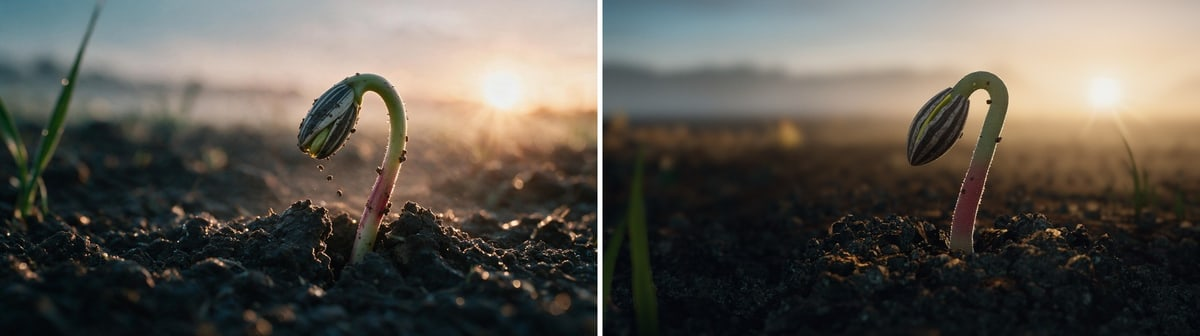
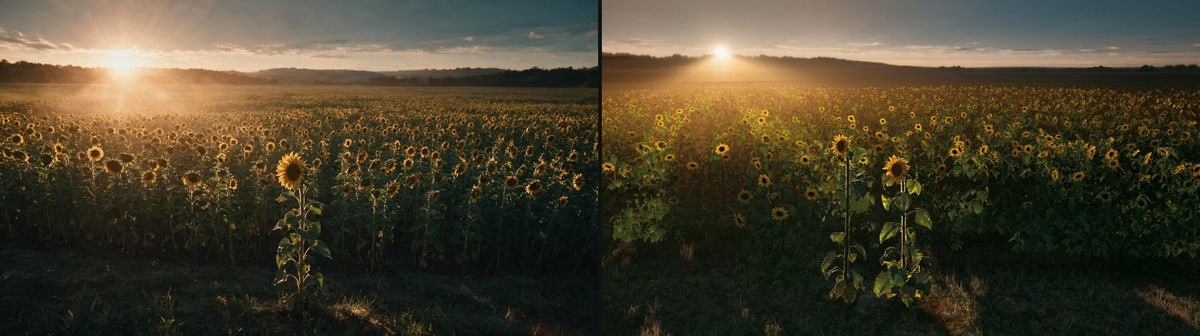
Status 53; rounds 17 and 18: packs in and checked (field, frost) on 47d93fd

diff --git a/kit/PROGRESS.md b/kit/PROGRESS.md
@@ -14,8 +14,8 @@ The Builder's memory. Read this first in every task. Update it before every comm
 - Extensions: 0
 - Extension step: none
 - App URL: https://sunflower-film.pplx.app
-- Last push: 2026-11-21 23:27 UTC · Phase 4: the five clips start in 48 parts on the builders' machines beside the last rounds; the packs of rounds 17 to 21 are being built
-- Last status: 52 · 2026-11-21 23:19 UTC · Phase 4 · unit night · round 16
+- Last push: 2026-11-21 23:47 UTC · Status 53; rounds 17 and 18: packs in and checked (field, frost) on 47d93fd
+- Last status: 53 · 2026-11-21 23:46 UTC · Phase 4 · unit frost · round 18
 
 "Build" is one of `not started`, `in progress`, `complete` or `extension N in progress`. "Budget" is one of `running` or `reported`. `AGENTS.md` says what each means.
 
@@ -23,6 +23,7 @@ The Builder's memory. Read this first in every task. Update it before every comm
 
 Newest first. Each line names the pictures of one status in `out/stills/status/`, with the time and the caption, so this page shows where the film is.
 
+- 2026-11-21 23:46 UTC · status 53 · Phase 4 · unit frost · round 18 · `status-1.jpg`: Frost 36.0 s, final tier. Approved left, the judged frame of round 18 right; `status-2.jpg`: Field 58.5 s, final tier. Approved left, the judged frame of round 17 right
 - 2026-11-21 23:19 UTC · status 52 · Phase 4 · unit night · round 16 · `status-1.jpg`: Night 26.0 s. Approved left, the line's head right: darker rows, hills at full height (review tier, a builder's render); `status-2.jpg`: Dawn 1.5 s. Approved left, the line's head right: the hook, the hull and the soil (review tier, a builder's render); `status-3.jpg`: Field far edge, a trial that is not in the film. Top: approved, the line. Bottom: the trial at 58.5 s and at 60 s (review tier); `status-4.jpg`: Night leaves, a trial that was declined. Approved left, blades seen edge on right: narrower than the approved, so it stays out (review tier)
 - 2026-11-21 23:01 UTC · status 51 · Phase 4 · unit night · round 16 · `status-1.jpg`: Rain 14.0 s. Approved left, the working line right: blades now hang and overlap on the left (review tier, a builder's render); `status-2.jpg`: Night 26.0 s. Approved left, the working line right: closer framing as the kit sets it, leaves still lit across their faces (review tier); `status-3.jpg`: Frost 36.0 s. Approved left, the working line right: thin hanging leaves, little rime on them yet (review tier); `status-4.jpg`: Field 58.5 s. Approved left, the working line right: no fan over the sun, a bare strip under the hills, two plants in front (review tier)
 - 2026-11-21 22:34 UTC · status 50 · Phase 4 · unit dawn · round 14 · `status-1.jpg`: Dawn 6.5 s. Approved left, the working line right: the hull now stands beside the stem (review tier); `status-2.jpg`: Night 26.0 s, the bud. Approved, the line before, the line now: a wider crown, no ring of bright points (review tier, crop); `status-3.jpg`: Frost 36.0 s, the bud. Approved, the line before, the line now: rounder, no needle tips, wider rime (review tier, crop); `status-4.jpg`: Night 26.0 s. Approved left, the working line right at f/11 with the new bud; the wooded hills are still to come (review tier)
@@ -34,7 +35,6 @@ Newest first. Each line names the pictures of one status in `out/stills/status/`
 - 2026-11-21 19:41 UTC · status 44 · Phase 4 · unit night · round 11 · `status-1.jpg`: Night 26.0 s, the crop · top the approved image, middle ours now, bottom ours with the low mist starting 9 m out (a tested request, not merged yet); `status-2.jpg`: Frost 36.0 s · approved left, ours right with the first fog fixes; `status-3.jpg`: Dawn 6.5 s · approved left, ours right with the far mist; `status-4.jpg`: Field 58.5 s, frozen for its second round · approved left, ours right (review tier)
 - 2026-11-21 19:10 UTC · status 43 · Phase 4 · unit dawn · round 9 · `status-1.jpg`: Dawn 1.5 s · approved left, round 9 judged frame right; `status-2.jpg`: Dawn 6.5 s · approved left, round 9 judged frame right; `status-3.jpg`: Rain 14.0 s · approved left, round 10 judged frame right; `status-4.jpg`: Field 58.5 s after its fix pass · approved left, ours right (review tier, the sky's builder's VM, before the last three merges)
 - 2026-11-21 18:29 UTC · status 42 · Phase 4 · unit frost · round 8 · `status-1.jpg`: Frost 1080 · approved; `status-2.jpg`: Frost 1080 · film, round 8; `status-3.jpg`: Night 780 · approved; `status-4.jpg`: Night 780 · film, round 11
-- 2026-11-21 17:55 UTC · status 41 · Phase 4 · unit frost · round 8 · `status-1.jpg`: Night, 26.0 s: approved (left), ours on the judged line (right), review tier; `status-2.jpg`: Approved (top) and ours (bottom) at 0, 1.5, 2, 6.5, 14 and 36 s, draft tier; `status-3.jpg`: Rain, 14.0 s: approved (left), ours (right), rendered by the rain world's agent; `status-4.jpg`: Frost bud: approved (left), ours (right), rendered by the bud's agent, merged after the judged commit
 
 ## Clock
 
@@ -46,10 +46,10 @@ Copied from the output of `npm run clock` at every status. Working time only.
 | 1 | 0.50 h | 0.05 h |
 | 2 | 3.50 h | 4.92 h |
 | 3 | 9.00 h | 9.42 h |
-| 4 | 8.50 h | 7.13 h |
+| 4 | 8.50 h | 7.45 h |
 | 5 | 3.00 h | 0.00 h |
 | 6 | 4.00 h | 0.00 h |
-| Whole build | 30.00 h | 22.59 h |
+| Whole build | 30.00 h | 22.91 h |
 
 Continuations and extensions are listed under this table with their own hours.
 
@@ -699,6 +699,8 @@ One line each: the date, the phase, the decision and why.
 - 2026-11-21 · Phase 4 · 23:19 UTC. The last fix pass ends here, six minutes before its close: every builder has reported, nothing more is waiting to go in, and the line stays at `43a42f6`. Not merged, each with its reason above: `ea51851` (leaves), `0ac1f4e` and `f90e3d8` (hairs), `c85f03a` (far edge), and as before `agent/surface`, `68c72b9` and `agent/probe`. Known open on the line by the builders' own stills beside the approved images, for the third rounds to judge: field 1755 (the far edge; the open head about 200 px across where the approved shows about 300, and `plant.headDiameterM` is a fixed fact of the kit that only Brandon settles; the sun with 602 clipped pixels against 5 and 35 px too high, which is the bloom's sun and Phase 5's to move), rain 420 (leaves larger, grey green, speckled and hanging against the approved's lifted clean ones; soil without clods), the cut at 8.0 s (the seed leaf turns grey with dark veins in one frame), dawn (soft even soil at 45, a stiff grass tuft and a pale tree line at 195, a faint star, the turn of the azimuth at frame 196), night 780 (leaves lit green across their faces, a stem fringe of dots where the approved has fine silver hairs, a crown of two blades against four, the crop's median 1.6 times the approved's, the hills as a painted backdrop), frost 1080 (thin leaves with little rime, near rows 12 to 15 levels light), the cut at 30.0 s (a small pop of the fringe on the bud's top bracts), and `skin_builder`'s request that the director hand the previous world's states to the next one (Phase 5).
 - 2026-11-21 · Phase 4 · 23:23 UTC. The joint cut for the third rounds: `main` merges the line at `43a42f6` as `47d93fd` at 23:20 UTC (type check clean, build clean, engine `b9de284219d214c9`; units dawn `609ff98b65fa38e3`, rain `cdb9bfbbb4e44942`, night `dd84d117aab66acc`, frost `8162048fd525a7c9`, bloom `d9662b45d5344491`, field `c229e6a6f41a2960`). Rounds 17 (`field`), 18 (`frost`), 19 (`dawn`), 20 (`rain`) and 21 (`night`) judge it, each the third and last round of its unit (`maxRoundsPerUnit` 3); the clock at 23:20:31 UTC prints `extra rounds: yes` (22.48 h of 30 h). They are cut twelve minutes before the 23:35 UTC planned at 23:00 UTC because the fix pass ended early (decision of 23:19 UTC) and every minute not used here is a minute for Phase 5. After these rounds no further round is run for any unit, pass or not: a unit that has not passed is `finished` at its `round limit`, its open severe and major issues go under "Open items", and later fixes are kept only while the checks and measures stay green. The bloom's unit hash moves again (shared plant files changed), its rounds are not run again (`kit/07-QUALITY-BAR.md`, Freshness): its kept stills 1350, 1515 and 1559 are byte identical on `43a42f6` by the builders' proofs, and the Builder renders 1350 and 1515 once more on its own VM after the machine checks to see it with its own eyes. Families, rotated against both earlier rounds of each unit: 17 `field` R1 Claude, R3 GPT, R4 Gemini; 18 `frost` R1 GPT, R3 Gemini, R4 Claude; 19 `dawn` R1 Gemini, R3 Claude (two critics), R4 GPT; 20 `rain` R1 Claude, R3 GPT, R4 Gemini; 21 `night` R1 GPT, R3 Gemini, R4 Claude. The packs are built at `final` on builders' VMs from detached checkouts of `47d93fd`, by the same hands as in rounds 12 to 16: `field` by `stem_builder`, `frost` by `harness_builder`, `dawn` by `golden_builder`, `rain` by `lens_builder`, `night` by `disc_builder`. Critics and jurors are fresh agents from `reviewer_207` on; at most 12 agents run at once, the builders in a turn counted.
 - 2026-11-21 · Phase 4 · 23:27 UTC. The five units' clips are rendered from `47d93fd` now, beside the rounds, and not after them. Why this is each unit's final build: rounds 17 to 21 are the last a count allows, they are extra rounds (no floor fix pass follows them), and `kit/07-QUALITY-BAR.md` keeps the build of the best judged round plus later fixes while checks and measures stay green, which is `47d93fd` whichever round scores best; what the critics find goes to "Open items" and is worked in Phase 6. The risk taken: if a machine check is red on `47d93fd` and its fix changes a pixel, or a measure is red and a later fix has to come out, the parts of the unit it touches are rendered again; that costs builders' machine time and none of the Builder's. Why now: 1440 frames at `review` are about 18 hours of one machine (30 to 45 s a frame on a builder's VM), 90 minutes on twelve, and 22.6 h of the 30 h are used. The parts: 48 of 30 frames (one second, one closed group of pictures), `npm run film -- --unit id --first A --last B --tier review --format 16x9` in a detached script per builder, as the bloom's twelve parts were made at 14:58 UTC; the seven builders without a pack job start at once with five parts each (dawn's eight, rain's twelve, night's ten, frost's first five, dealt round robin so the earlier units end first), the five pack builders take the other thirteen (frost's last five, the field's eight) after their packs are sent. The agent limit: a builder polling its job is an agent in a turn, and with twelve of them no critic could start. So `skin_builder` tests now whether a detached job runs on while its agent is idle; if it does, every builder ends its turn while the critics and jurors work and is woken for its parts; if it does not, builders are paused in turns as in round 6.
+- 2026-11-21 · Phase 4 · 23:34 UTC. Read again from disk after the context was compacted at 23:20 and at 23:29 UTC, as `AGENTS.md` orders: `AGENTS.md`, `kit/08-BUILD-ORDER.md` from Phase 4 to the end with both report blocks, all of `kit/07-QUALITY-BAR.md`, `kit/02-SUBJECT.md`, `kit/03-METHOD.md`, `kit/04-LOOK.md`, `kit/06-ASSETS.md`, `kit/addenda/README.md` (no addenda; `origin/main` is at this checkout's head), and in this file "Status", "Units", "Look lock", "Declined issues", "Open items", "Running jobs". What it changes: nothing in the plan. Noted for the hours left: the pass bar asks for every judged still at `final` (the packs' stills are), a unit closed by its count keeps the build of its best judged round plus later fixes only while checks and measures stay green, and the budget report comes before any step in hand.
+- 2026-11-21 · Phase 4 · 23:38 UTC. Builders whose clip parts render end their turns while the critics and jurors of rounds 17 to 21 work. Tested first on `skin_builder`'s machine: its detached `clip-parts.sh` showed 2 frames of `dawn` 180 to 209 done at 23:30:07 UTC when the agent ended its turn, and 9 frames at 23:36:46 UTC when the Builder woke it (its `ps` showed the script and the render alive). So a detached job runs on while its agent is idle, and an idle agent does not count toward `sandbox.maxAgents` (12). `field_builder`, `leaf_builder`, `ground_builder`, `petal_builder`, `bud_builder` and `hair_builder` were told at 23:38 UTC to end their turns; each is woken by the Builder for its finished parts (every finished part in one message, at most 10 files). The five that build packs end their turns once the pack is sent and their clip parts are started. Measured speed of a `dawn` part at `review` on a builder's VM: 54 to 66 s a frame (30 to 45 s were expected), so about 30 minutes a `dawn` part and the first wave's five parts end at about 01:30 UTC, not 01:10.
 
 ## Notes from Brandon
 
@@ -1101,7 +1103,7 @@ One entry per round, written and pushed when the round starts: number, phase, un
 - Started 2026-11-21 23:23 UTC. Judges commit `47d93fd` (engine `b9de284219d214c9`, unit `field` `c229e6a6f41a2960`): `main` with the Phase 4 line `43a42f6` merged in. Rounds 17 to 21 start together at 23:23 UTC on this one commit, the joint cut after the last fix pass of 21:34 to 23:19 UTC; the machine checks are one run on the commit and count for all five rounds, the measures and the pack are each unit's own. Unit `field` (52 to 60 s, frames 1560 to 1799), the third and last of at most three rounds of its loop (`maxRoundsPerUnit` 3): whatever the answers are, no round follows it; judged frame 1755 (`field`, 58.5 s). An extra round: `npm run clock -- --phase 4` at 23:20:31 UTC says extra rounds yes (7.01 h used of the phase's 8.50 h, 22.48 h of the build's 30 h). Families rotate against the unit's rounds 7 and 12: R1 Claude, R3 GPT, R4 Gemini; the jury is five jurors over five families (GPT, Gemini, Claude, GLM, Grok) on each judged frame, and the controls' votes are the ones collected in round 7. Before the round: type check clean and build clean on `main`, 121 of 121 tests on the line's head (`out/work/logs/p4-line-test-2303.log`), and the builders' byte proofs of the bloom's kept stills on `43a42f6` at `review` (1350, 1515 and 1559 unchanged). What the Builder sees before any critic does, on `field_builder`'s `review` still of 1755 on the line's head `43a42f6` beside the approved image (his picture of 23:01 UTC, looked at by the Builder): the sun is a small disc with a soft glow now, near the approved's, but without the approved's veil of dust over the crop; two plants stand in front where the approved has the one; the open head is about 200 px across where the approved's is about 300; the crop ends in a straight edge under a bare dark band where the approved's runs on into the haze under the far trees; the heads are small and even where the approved's are larger near the lens; the near ground is dark with one pale patch at lower right.
 - [ ] Machine checks
 - [ ] Measures
-- [ ] Pack
+- [x] Pack (`npm run pack -- --phase 4 --round 17 --unit field`): built on `stem_builder`'s VM (4 cores) in a second worktree at `47d93fd`, 23:24:23 to 23:44:12 UTC by its clock, exit 0, 19.8 min, log `out/work/logs/r17-pack-stem_builder.log`; four tars, the key, the log and the `final` still of frame 1755 with its record came back and stand in `out/work/packs/round-017/R1` to `R4` (4, 2, 3 and 3 images) with the key `out/work/packs/keys/round-017.json`. Checked by the Builder before any critic got a file: the key names commit `47d93fd`, engine `b9de284219d214c9`, unit `field` `c229e6a6f41a2960`, tier `final`; all 12 sha256 sums equal the sender's list; every image looked at (`out/work/scratch/r17-pack-look-1.jpg`, `-2.jpg`); and the judged frame in the pack (`R2/set-B-02.png`, the same bytes as `R1/set-A-01-b.png`) is the `final` still of frame 1755 (sha256 `674d8651`, equal to his list; 279.7 s), scaled the same way: 0 of its values differ (max 0). `set-B-01.png` is the control, `set-B-02.png` the judged frame. Seen by the Builder in the pack and left for the critics: the dark flat strip under the hills, the sun's wide white core, the heads smaller than the approved's.
 - [ ] R1 answer
 - [ ] R2 jury answers
 - [ ] R3 answer
@@ -1114,7 +1116,7 @@ One entry per round, written and pushed when the round starts: number, phase, un
 - Started 2026-11-21 23:23 UTC. Judges commit `47d93fd` (engine `b9de284219d214c9`, unit `frost` `8162048fd525a7c9`): `main` with the Phase 4 line `43a42f6` merged in. Rounds 17 to 21 start together at 23:23 UTC on this one commit, the joint cut after the last fix pass of 21:34 to 23:19 UTC; the machine checks are one run on the commit and count for all five rounds, the measures and the pack are each unit's own. Unit `frost` (30 to 40 s, frames 900 to 1199), the third and last of at most three rounds of its loop (`maxRoundsPerUnit` 3): whatever the answers are, no round follows it; judged frame 1080 (`frost`, 36.0 s). An extra round: `npm run clock -- --phase 4` at 23:20:31 UTC says extra rounds yes (7.01 h used of the phase's 8.50 h, 22.48 h of the build's 30 h). Families rotate against the unit's rounds 8 and 13: R1 GPT, R3 Gemini, R4 Claude; the jury is five jurors over five families (GPT, Gemini, Claude, GLM, Grok) on each judged frame, and the controls' votes are the ones collected in round 8. Before the round: type check clean and build clean on `main`, 121 of 121 tests on the line's head (`out/work/logs/p4-line-test-2303.log`), and the builders' byte proofs of the bloom's kept stills on `43a42f6` at `review` (1350, 1515 and 1559 unchanged). What the Builder sees before any critic does, on `harness_builder`'s `review` still of 1080 on `43a42f6` beside the approved image (his picture of 23:08 UTC, looked at by the Builder): the framing, the bud and the pale sun are the approved's; the leaves are fewer, narrower and darker and hang, with a white margin, where the approved's are broader with a pale frosted face; the stem is plainer than the approved's; the neighbors are a soft dark mass with few buds standing clear where the approved shows single plants with buds on thin stems in the haze.
 - [ ] Machine checks
 - [ ] Measures
-- [ ] Pack
+- [x] Pack (`npm run pack -- --phase 4 --round 18 --unit frost`): built on `harness_builder`'s VM (4 cores) in a second worktree at `47d93fd`, 23:24:52 to 23:43:02 UTC by its clock, exit 0, 18.2 min, log `out/work/logs/r18-pack-harness_builder.log`; four tars, the key, the log and the `final` still of frame 1080 with its record came back and stand in `out/work/packs/round-018/R1` to `R4` (4, 2, 3 and 4 images) with the key `out/work/packs/keys/round-018.json`. Checked by the Builder before any critic got a file: the key names commit `47d93fd`, engine `b9de284219d214c9`, unit `frost` `8162048fd525a7c9`, tier `final`; all 13 sha256 sums equal the sender's list; every image looked at (`out/work/scratch/r18-pack-look-1.jpg`, `-2.jpg`); and the judged frame in the pack (`R2/set-B-02.png`, the same bytes as `R1/set-A-01-b.png`) is the `final` still of frame 1080 (sha256 `7b3e2086`, equal to his list), scaled the same way: 0 of its values differ (max 0). `set-B-01.png` is the control, `set-B-02.png` the judged frame. Seen by the Builder in the pack and left for the critics: thin leaves with little rime against the approved's broad rimed ones, and a straight pale line at the far plain in the last second of the contact sheet (38.2 to 40.0 s).
 - [ ] R1 answer
 - [ ] R2 jury answers
 - [ ] R3 answer
@@ -1294,6 +1296,7 @@ One line per push: the date, the commit and what it carried. A failed push is lo
 - 2026-11-21 23:19 UTC · Status 52: the last fix pass ends on 43a42f6, three late pieces left out, summaries of rounds 12 to 16
 - 2026-11-21 23:23 UTC · Rounds 17 to 21 start: the third and last rounds of field, frost, dawn, rain and night judge 47d93fd (main with the line at 43a42f6)
 - 2026-11-21 23:27 UTC · Phase 4: the five clips start in 48 parts on the builders' machines beside the last rounds; the packs of rounds 17 to 21 are being built
+- 2026-11-21 23:47 UTC · Status 53; rounds 17 and 18: packs in and checked (field, frost) on 47d93fd
 
 ## Session log
 
@@ -1408,4 +1411,6 @@ One entry per task: when it started, the prompt it was started with, what it did
   Pictures: Rain 14.0 s. Approved left, the working line right: blades now hang and overlap on the left (review tier, a builder's render); Night 26.0 s. Approved left, the working line right: closer framing as the kit sets it, leaves still lit across their faces (review tier); Frost 36.0 s. Approved left, the working line right: thin hanging leaves, little rime on them yet (review tier); Field 58.5 s. Approved left, the working line right: no fan over the sun, a bare strip under the hills, two plants in front (review tier).
 - Status 52, 2026-11-21 23:19 UTC, Phase 4 · unit night · round 16. The last fix pass is over and the line stays at 43a42f6. Three late pieces were measured and left out because their own stills were not right beside the approved images: narrower night leaves, damp hairs, rows past the field's edge (its cause is found and the work is kept on a side branch). The night keeps its f/11 lens. A correction to Status 51: the night's sharpness measure reads 0.828 at final on the line where 0.8 is needed, so it is green by a thin margin and not red. The summaries of rounds 12 to 16 are written. Next: The joint cut now, then rounds 17 to 21, the third and last round for dawn, rain, night, frost and field: machine checks, measures at final, fresh critics and jurors. Time used: 22.5 h of 30 h.
   Pictures: Night 26.0 s. Approved left, the line's head right: darker rows, hills at full height (review tier, a builder's render); Dawn 1.5 s. Approved left, the line's head right: the hook, the hull and the soil (review tier, a builder's render); Field far edge, a trial that is not in the film. Top: approved, the line. Bottom: the trial at 58.5 s and at 60 s (review tier); Night leaves, a trial that was declined. Approved left, blades seen edge on right: narrower than the approved, so it stays out (review tier).
+- Status 53, 2026-11-21 23:46 UTC, Phase 4 · unit frost · round 18. Rounds 17 to 21 (third and last of field, frost, dawn, rain, night) judge one joint cut, 47d93fd. The frost and field packs are in from two builders' machines and checked: every sum equals the sender's list and each judged frame equals its final still value for value. Machine checks G1 to G12 green, G13 printing. Clip parts of the five units render on seven machines. Next: Tick the machine checks, measure frost and field, then send both packs to fresh critics and jurors; dawn, rain and night packs follow. Time used: 22.9 h of 30 h.
+  Pictures: Frost 36.0 s, final tier. Approved left, the judged frame of round 18 right; Field 58.5 s, final tier. Approved left, the judged frame of round 17 right.
 

diff --git a/out/stills/status/STATUS.md b/out/stills/status/STATUS.md
@@ -1,12 +1,10 @@
-# Status 52
+# Status 53
 
-2026-11-21 23:19 UTC
+2026-11-21 23:46 UTC
 
-- Status 52 · Phase 4 · unit night · round 16. The last fix pass is over and the line stays at 43a42f6. Three late pieces were measured and left out because their own stills were not right beside the approved images: narrower night leaves, damp hairs, rows past the field's edge (its cause is found and the work is kept on a side branch). The night keeps its f/11 lens. A correction to Status 51: the night's sharpness measure reads 0.828 at final on the line where 0.8 is needed, so it is green by a thin margin and not red. The summaries of rounds 12 to 16 are written.
-- Next: The joint cut now, then rounds 17 to 21, the third and last round for dawn, rain, night, frost and field: machine checks, measures at final, fresh critics and jurors. Time used: 22.5 h of 30 h.
+- Status 53 · Phase 4 · unit frost · round 18. Rounds 17 to 21 (third and last of field, frost, dawn, rain, night) judge one joint cut, 47d93fd. The frost and field packs are in from two builders' machines and checked: every sum equals the sender's list and each judged frame equals its final still value for value. Machine checks G1 to G12 green, G13 printing. Clip parts of the five units render on seven machines.
+- Next: Tick the machine checks, measure frost and field, then send both packs to fresh critics and jurors; dawn, rain and night packs follow. Time used: 22.9 h of 30 h.
 - Review page: https://sunflower-film.pplx.app/review.html
 
-- `status-1.jpg`: Night 26.0 s. Approved left, the line's head right: darker rows, hills at full height (review tier, a builder's render)
-- `status-2.jpg`: Dawn 1.5 s. Approved left, the line's head right: the hook, the hull and the soil (review tier, a builder's render)
-- `status-3.jpg`: Field far edge, a trial that is not in the film. Top: approved, the line. Bottom: the trial at 58.5 s and at 60 s (review tier)
-- `status-4.jpg`: Night leaves, a trial that was declined. Approved left, blades seen edge on right: narrower than the approved, so it stays out (review tier)
+- `status-1.jpg`: Frost 36.0 s, final tier. Approved left, the judged frame of round 18 right
+- `status-2.jpg`: Field 58.5 s, final tier. Approved left, the judged frame of round 17 right
